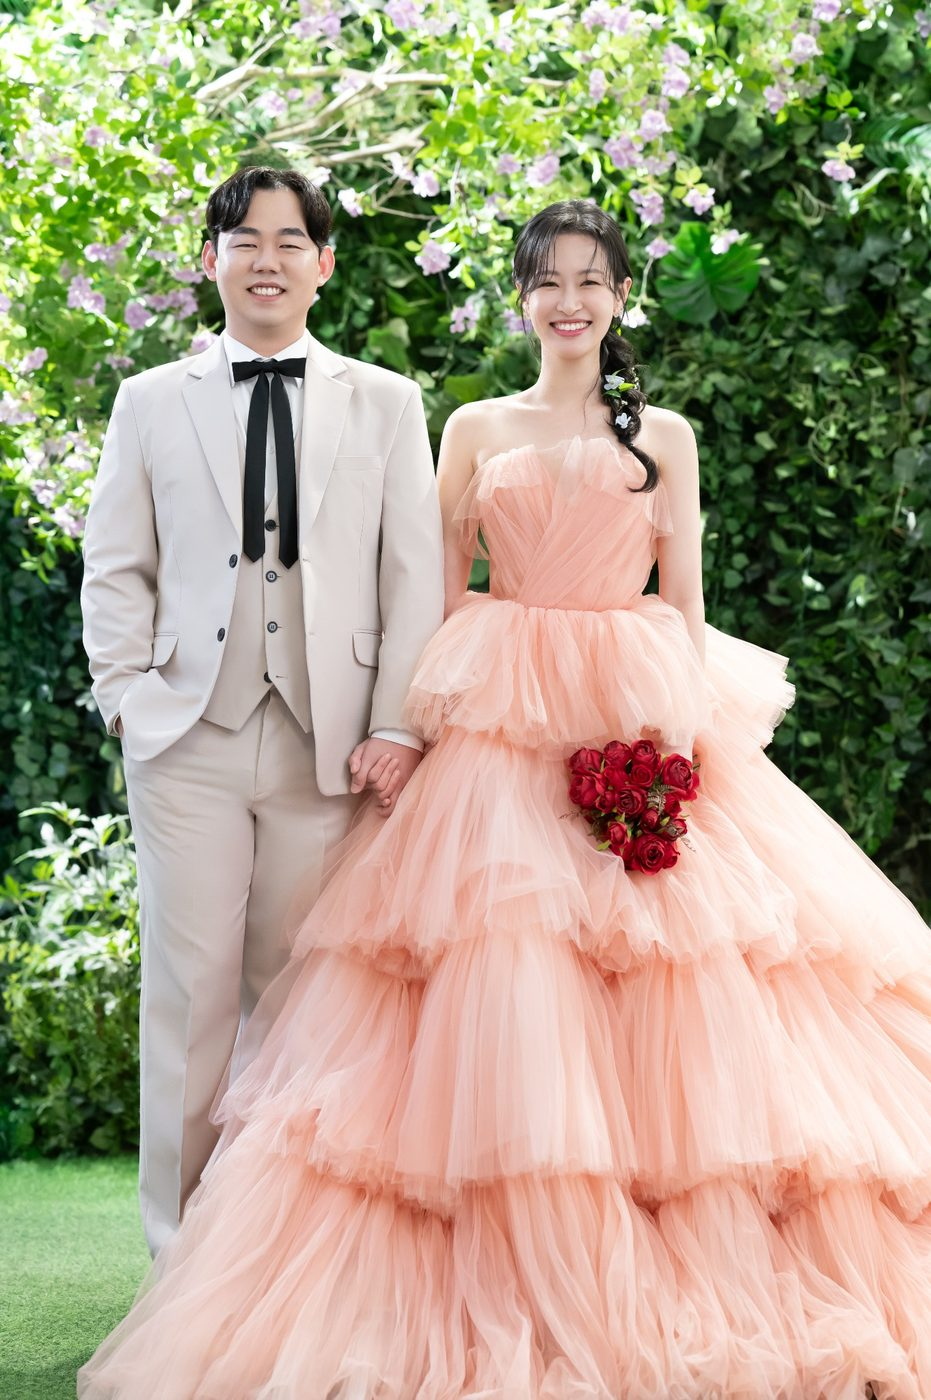
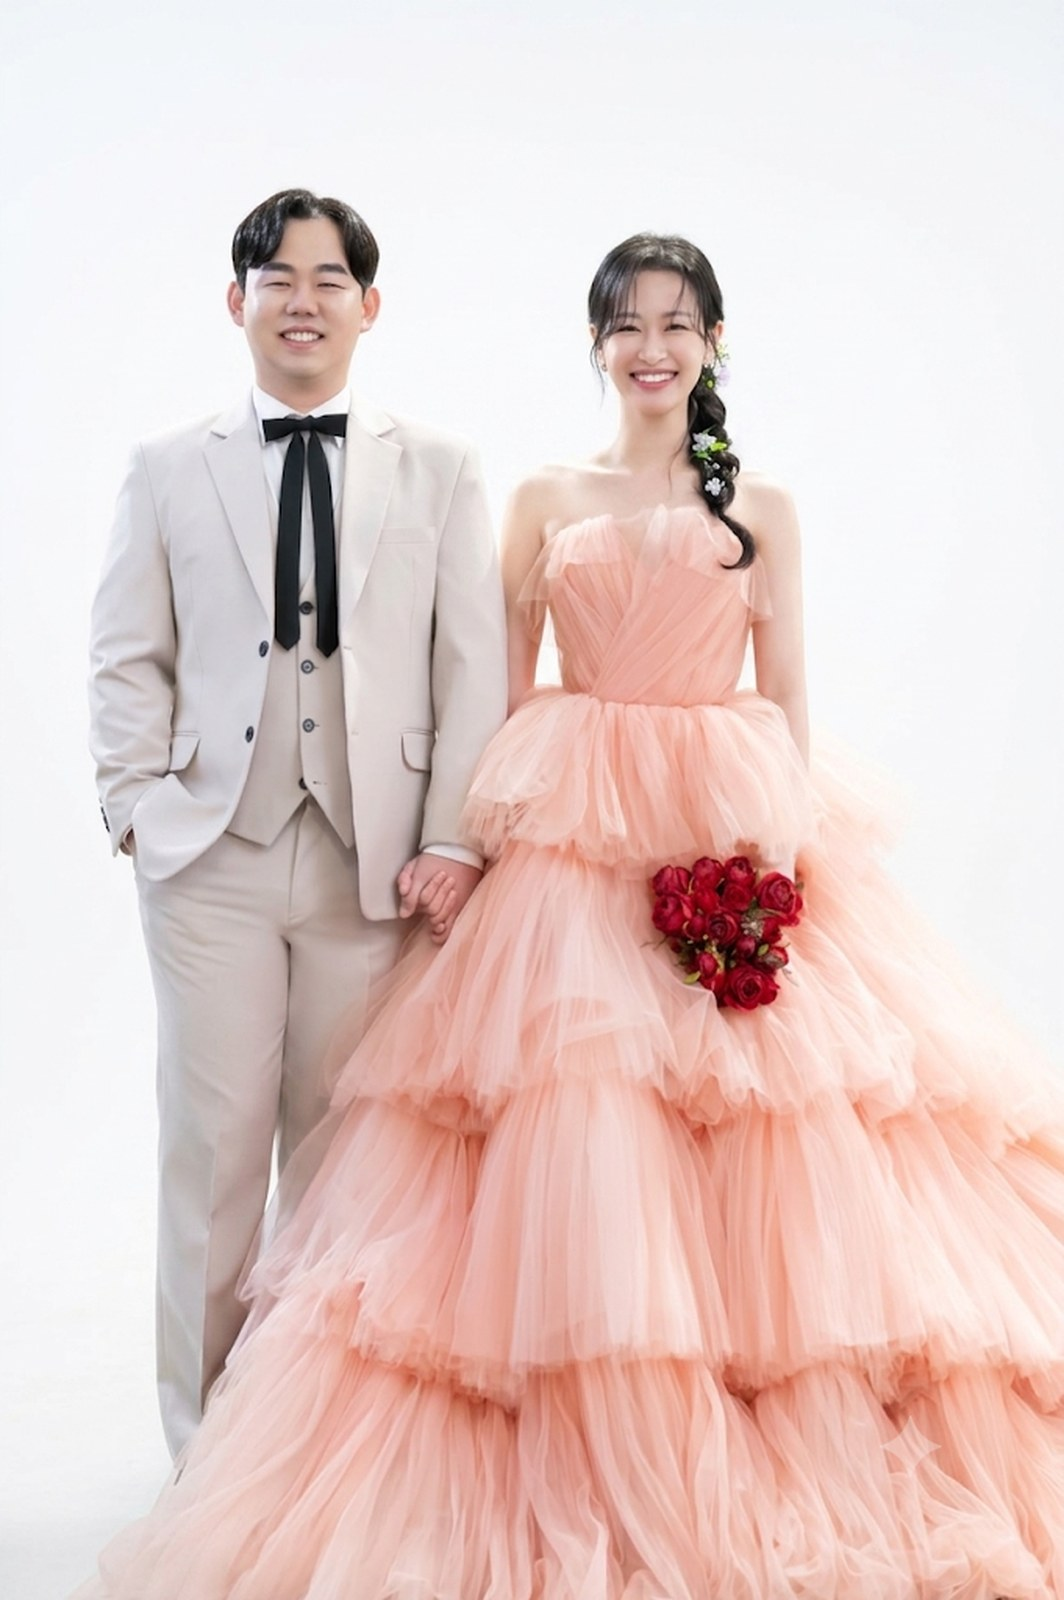
메인 초대 문구 디자인 수정 및 사진 변경

diff --git a/css/sections.css b/css/sections.css
@@ -162,25 +162,60 @@
 }
 
 /* =========================
-   INVITATION
+   INVITATION MESSAGE
 ========================= */
 
-.invitation {
-  background: var(--paper);
-}
-
-.flower-mark {
-  margin: 34px 0;
-  color: var(--accent);
+.invitation-message {
+  margin-top: 15px;
   text-align: center;
 }
 
-.invitation-text {
+.invitation-quote {
   margin: 0;
-  color: #655f59;
-  font-size: 15px;
+
+  font-family: var(--serif);
+  font-size: clamp(17px, 4.4vw, 20px);
+  font-weight: 600;
   line-height: 2;
-  text-align: center;
+
+  color: var(--text);
+  letter-spacing: -0.025em;
+  word-break: keep-all;
+}
+
+.invitation-author {
+  margin: 18px 0 0;
+
+  font-family: var(--serif);
+  font-size: 14px;
+  font-weight: 400;
+
+  color: var(--muted);
+  letter-spacing: -0.02em;
+}
+
+.invitation-divider {
+  display: block;
+
+  width: 1px;
+  height: 34px;
+
+  margin: 26px auto;
+
+  background: rgba(47, 43, 40, 0.22);
+}
+
+.invitation-description {
+  margin: 0;
+
+  font-family: var(--serif);
+  font-size: clamp(15px, 4vw, 17px);
+  font-weight: 400;
+  line-height: 1.9;
+
+  color: var(--muted);
+  letter-spacing: -0.025em;
+  word-break: keep-all;
 }
 
 .couple-line {
@@ -826,4 +861,14 @@ footer small {
     font-size: 8px;
     letter-spacing: 0.28em;
   }
+}
+
+.flower-mark {
+  width: 100%;
+  margin: 24px 0 38px;
+  text-align: center;
+
+  font-size: 18px;
+  line-height: 1;
+  color: var(--accent);
 }

diff --git a/index.html b/index.html
@@ -83,14 +83,26 @@
 
             <div class="flower-mark">✦</div>
 
-            <p class="invitation-text">
-              서로를 바라보던 반짝이는 눈빛을<br>
-              지나치지 않고 인연으로 간직해 온 3년,<br>
-              이제는 평생 서로를 소중히 여기고자 합니다.
-              <br><br>
-              뜻깊은 날에 함께 축복해 주신다면<br>
-              더없는 행복으로 여기며 살아가도록 하겠습니다.
-            </p>
+            <div class="invitation-message">
+  <p class="invitation-quote">
+    “사랑하지 않고 스쳐 갈 수도 있었는데<br>
+    사랑일지도 모른다고 걸음을 멈춰준<br>
+    그 사람이 정녕 고맙다고”
+  </p>
+
+  <p class="invitation-author">
+    양귀자 &lt;모순&gt;
+  </p>
+
+  <span class="invitation-divider"></span>
+
+  <p class="invitation-description">
+    수많은 우연 가운데 서로를 알아본 두 사람이<br>
+    이제 평생 서로의 곁에 머물기로 했습니다.<br>
+    뜻깊은 날 함께 축복해 주신다면<br>
+    더없는 행복으로 여기며 살아가겠습니다.
+  </p>
+</div>
 
             <div class="couple-line">
               <div>
